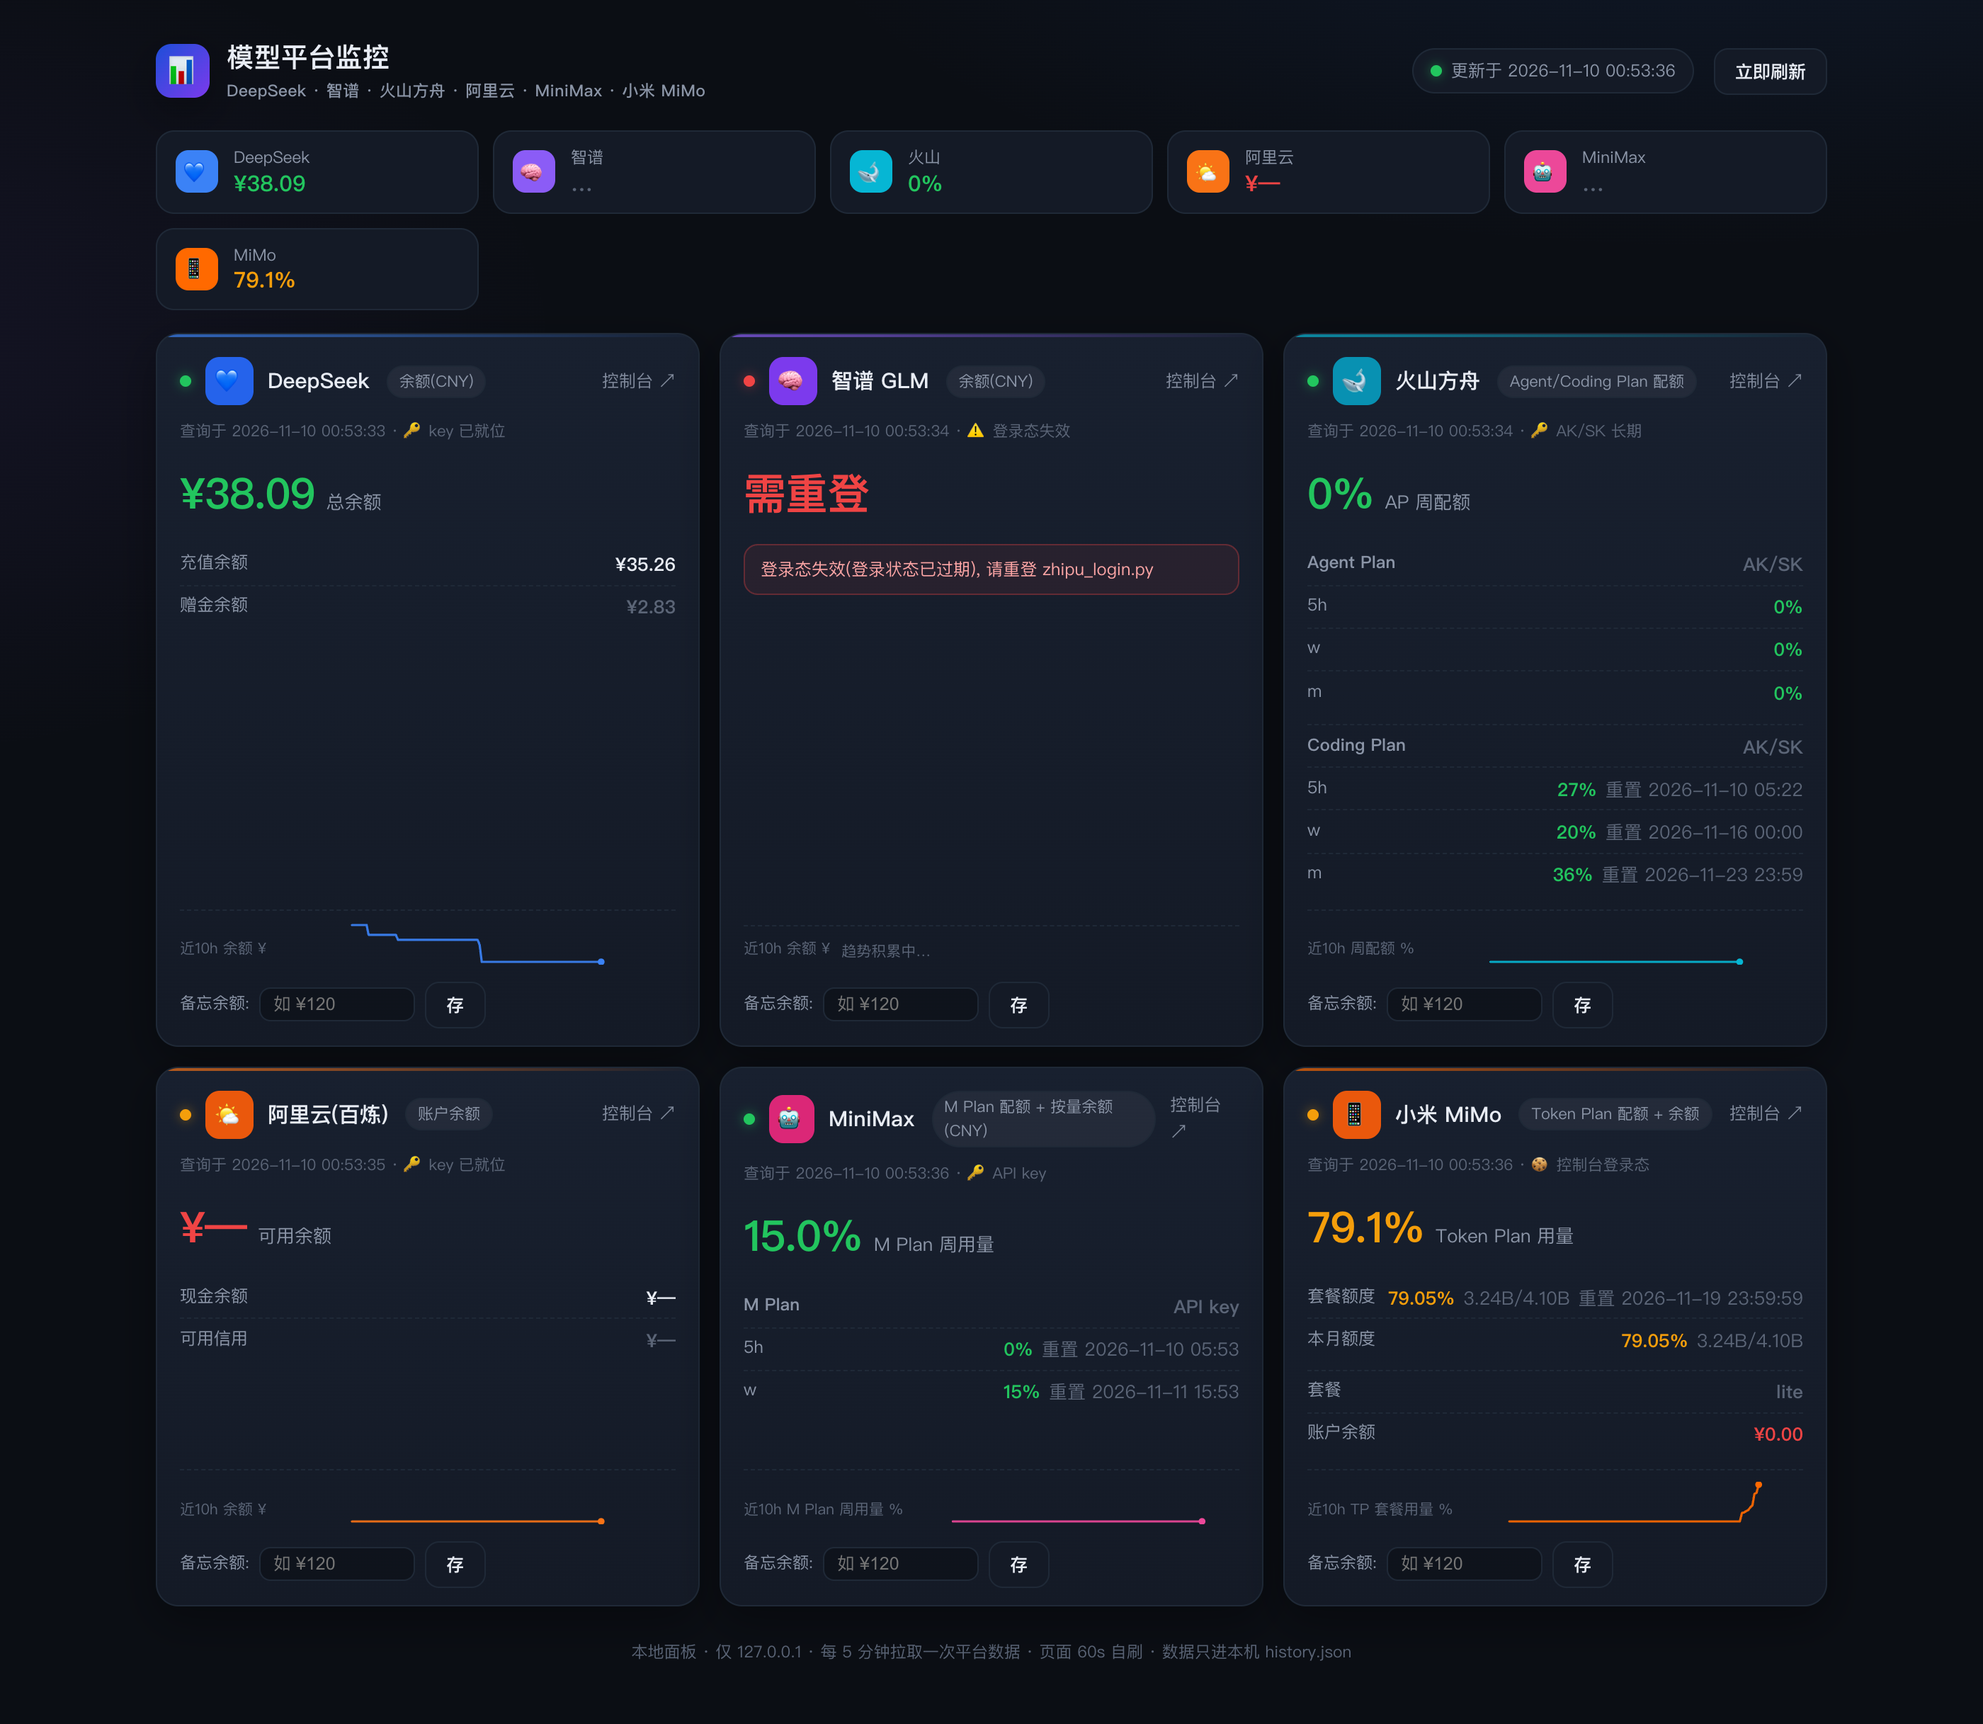
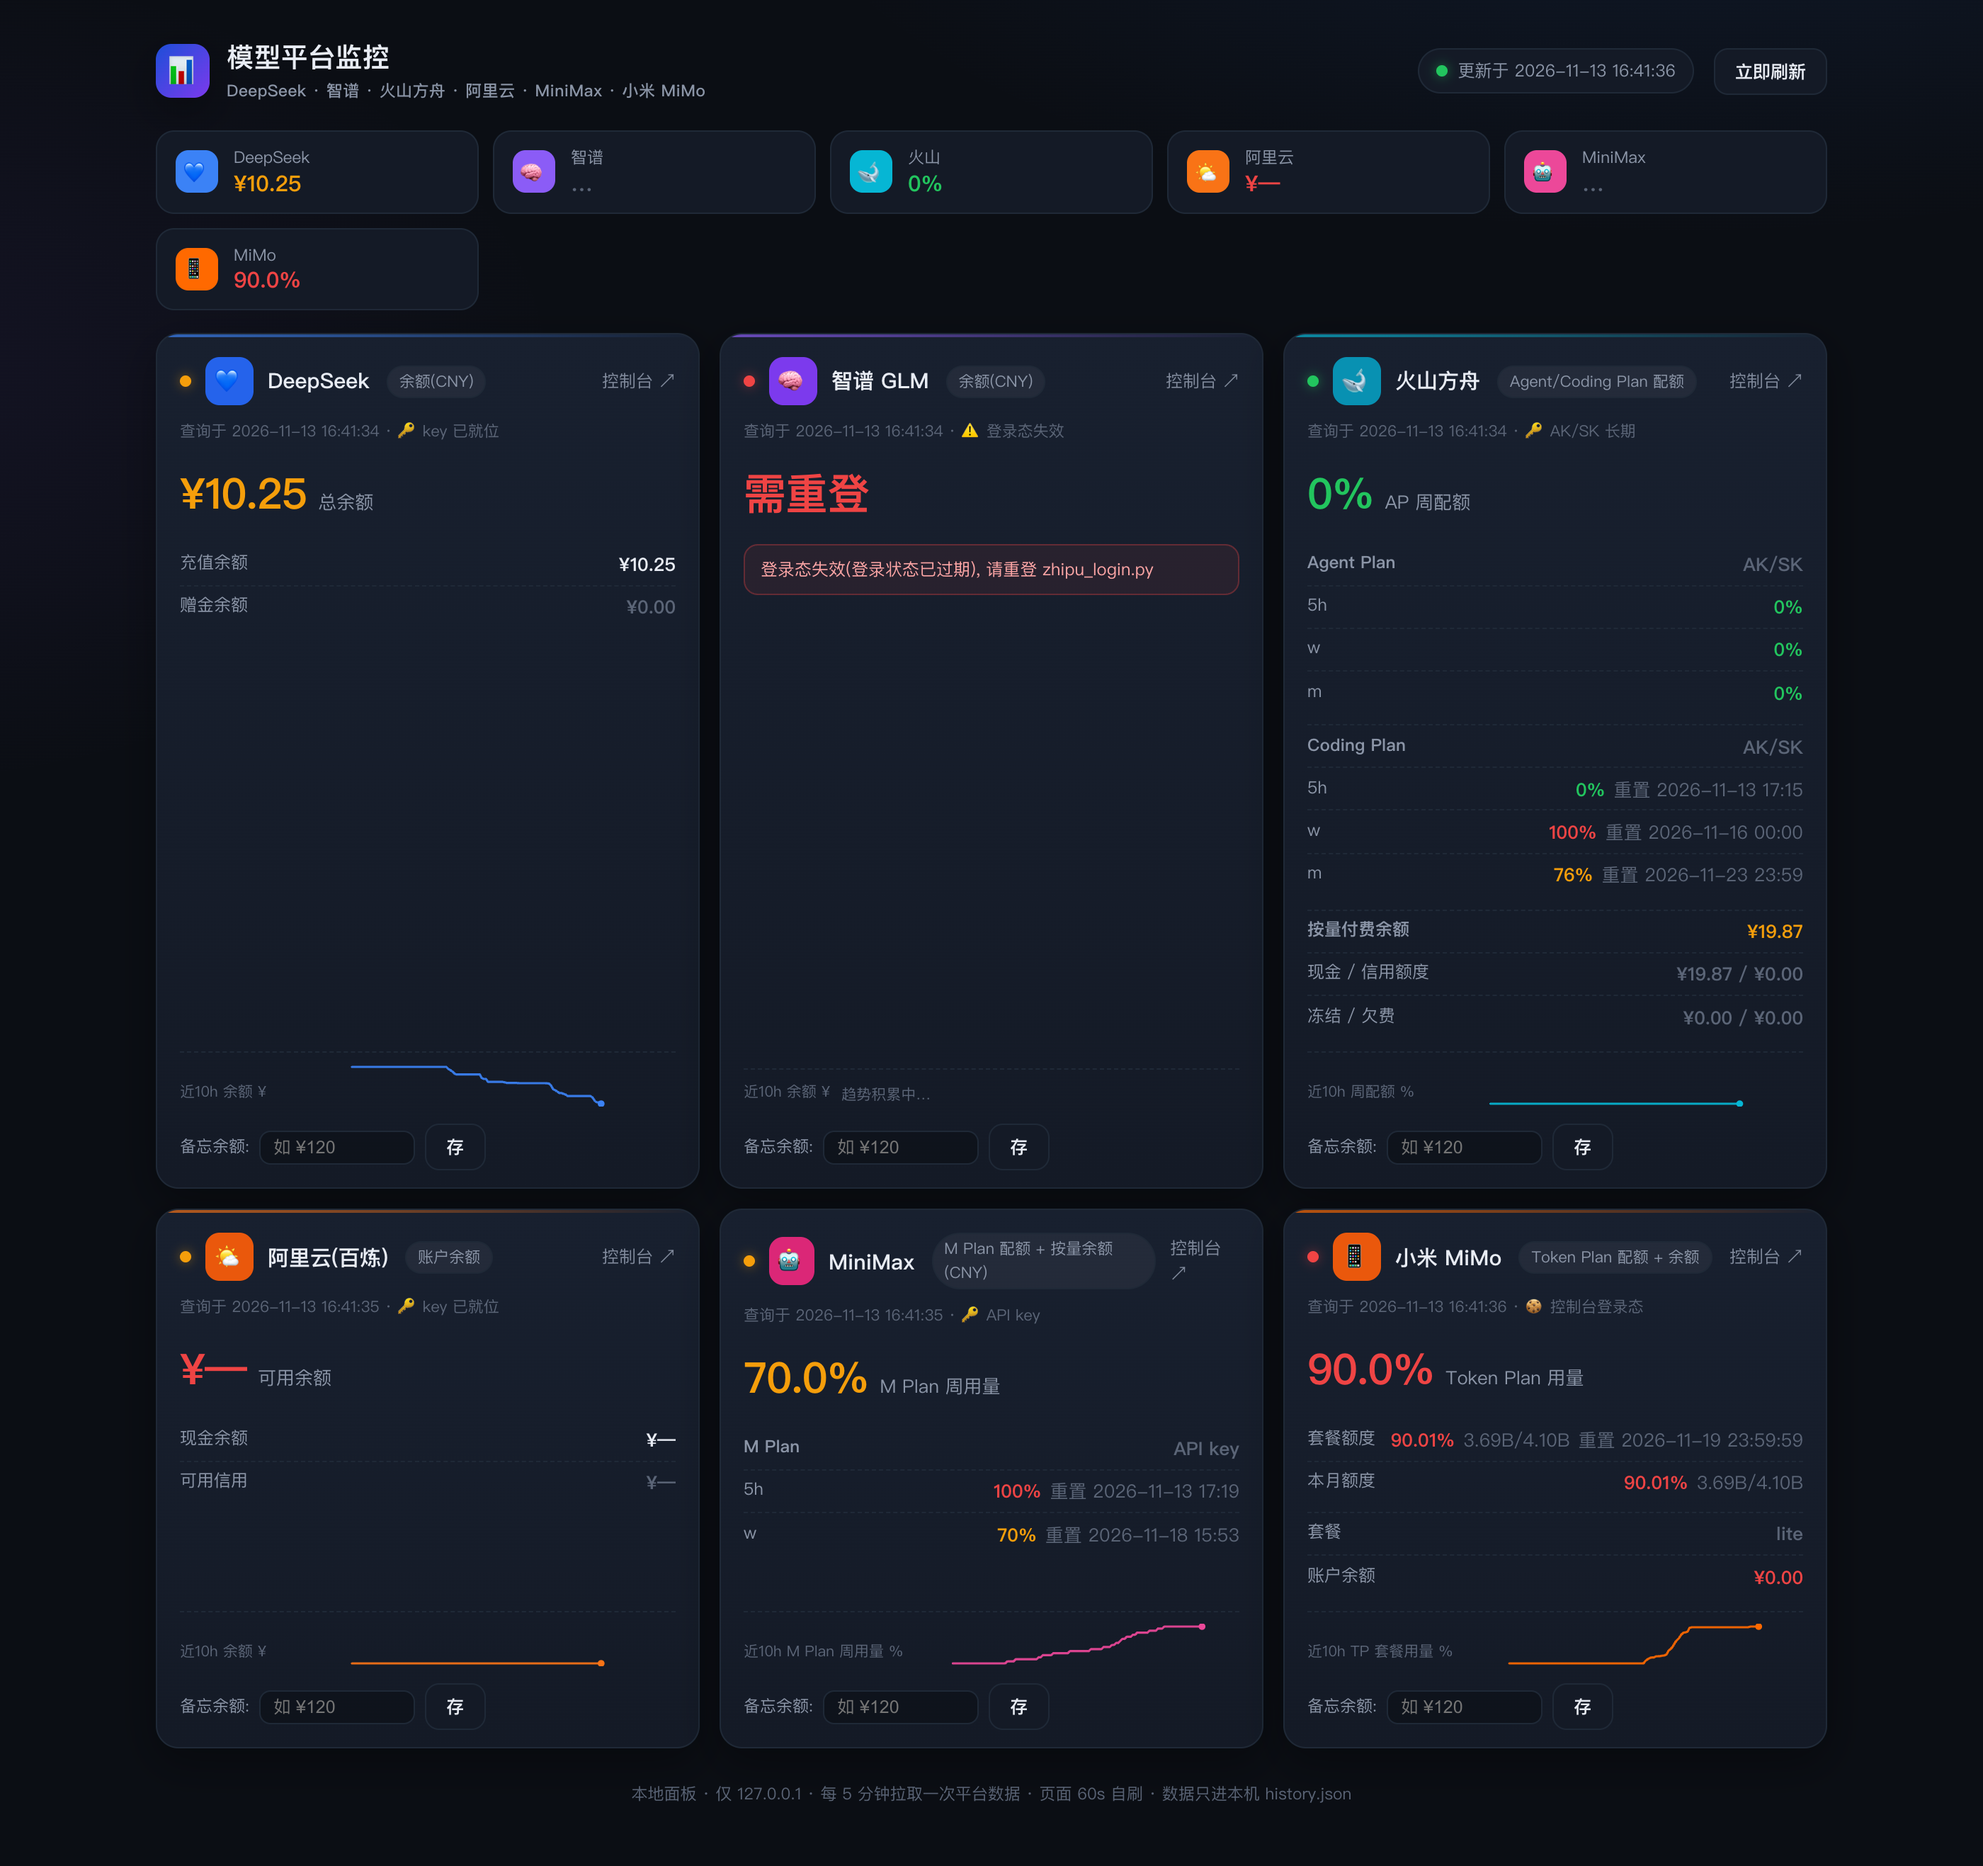
feat(volc): 新增按量付费账户余额监控（Billing OpenAPI QueryBalanceAcct）
- 签名函数支持自定义 host/service/version，余额走 billing 服务
- 面板火山卡片展示可用/现金/信用额度/冻结/欠费
- 菜单栏新增「火山余额」独立一行
- history 新增 volc_bal 采样
- README 补充权限要求与两套账的说明

diff --git a/dashboard.html b/dashboard.html
@@ -233,6 +233,20 @@ function render(data,hist){
       }else if(a.needs_login){pillCls="dot err";hero=`<span class="big r">需重登</span>`;rows=`<div class="errbox">${esc(a.error||"SSO 失效")}</div>`;}
       else if(a.needs_permission){pillCls="dot err";hero=`<span class="big r">无权限</span>`;rows=`<div class="errbox">${esc(a.error||"")}</div>`;}
       else{pillCls="dot err";hero=`<span class="big r">—</span>`;rows=errboxHtml(a.error);}
+      // 按量付费余额（Billing OpenAPI）—— 与套餐额度并列，套餐状态不影响它
+      const vb=a.balance;
+      if(vb){
+        rows+=`<div class="row" style="margin-top:10px"><span class="lbl" style="font-weight:600">按量付费余额</span>`+
+          (vb.ok&&vb.available!=null
+            ? `<span class="num ${balClass(vb.available)}">¥${fmt(vb.available)}</span></div>
+               <div class="row"><span class="lbl">现金 / 信用额度</span><span class="num dim">¥${fmt(vb.cash)} / ¥${fmt(vb.credit_limit)}</span></div>
+               <div class="row"><span class="lbl">冻结 / 欠费</span><span class="num dim">¥${fmt(vb.frozen)} / ¥${fmt(vb.arrears)}</span></div>`
+            : vb.needs_permission
+              ? `<span class="num err">缺 billing 权限</span></div>`
+              : vb.needs_setup
+                ? `<span class="num dim">未配 AK/SK</span></div>`
+                : `<span class="num dim">${esc(String(vb.error||"—").slice(0,50))}</span></div>`);
+      }
     }
     else if(pid==="minimax"){
       const lblShort=l=>({weekly:"w",monthly:"m",session:"5h",daily:"d","5h":"5h"}[l]||l);

diff --git a/poller.py b/poller.py
@@ -267,21 +267,22 @@ def query_volc_agentplan():
 # --------------------------------------------------------------------------
 _VOLC_HOST = "open.volcengineapi.com"
 
-def _volc_sign_req(ak, sk, action="GetAFPUsage", payload=None):
+def _volc_sign_req(ak, sk, action="GetAFPUsage", payload=None,
+                   host=_VOLC_HOST, service="ark", version="2024-01-01"):
     payload = payload or {}
     body = json.dumps(payload, separators=(",", ":"))
     payload_hash = hashlib.sha256(body.encode()).hexdigest()
     now = datetime.datetime.now(datetime.timezone.utc)
     xdate = now.strftime("%Y%m%dT%H%M%SZ")
     datestamp = xdate[:8]
-    query = {"Action": action, "Version": "2024-01-01"}
+    query = {"Action": action, "Version": version}
     cq = "&".join(f"{urllib.parse.quote(k)}={urllib.parse.quote(str(v))}"
                   for k, v in sorted(query.items()))
-    headers = {"host": _VOLC_HOST, "x-content-sha256": payload_hash, "x-date": xdate}
+    headers = {"host": host, "x-content-sha256": payload_hash, "x-date": xdate}
     signed = ";".join(sorted(headers))
     ch = "".join(f"{k}:{headers[k].strip()}\n" for k in sorted(headers))
     canonical = f"POST\n/\n{cq}\n{ch}\n{signed}\n{payload_hash}"
-    scope = f"{datestamp}/cn-beijing/ark/request"
+    scope = f"{datestamp}/cn-beijing/{service}/request"
     sts = f"HMAC-SHA256\n{xdate}\n{scope}\n{hashlib.sha256(canonical.encode()).hexdigest()}"
 
     def _h(key, msg):
@@ -291,11 +292,11 @@ def _volc_sign_req(ak, sk, action="GetAFPUsage", payload=None):
             msg = msg.encode()
         return hmac.new(key, msg, hashlib.sha256).digest()
 
-    kd = _h(sk, datestamp); kr = _h(kd, "cn-beijing"); ks = _h(kr, "ark"); kk = _h(ks, "request")
+    kd = _h(sk, datestamp); kr = _h(kd, "cn-beijing"); ks = _h(kr, service); kk = _h(ks, "request")
     sig = hmac.new(kk, sts.encode(), hashlib.sha256).hexdigest()
     auth = f"HMAC-SHA256 Credential={ak}/{scope}, SignedHeaders={signed}, Signature={sig}"
     req = urllib.request.Request(
-        f"https://{_VOLC_HOST}/?{cq}", data=body.encode(), method="POST",
+        f"https://{host}/?{cq}", data=body.encode(), method="POST",
         headers={"Content-Type": "application/json", "X-Date": xdate,
                  "X-Content-Sha256": payload_hash, "Authorization": auth,
                  "User-Agent": "model-monitor/1.0"})
@@ -481,6 +482,41 @@ def query_volc_codingplan(ak, sk):
         )
         return merged
     return aksk or fb
+
+# --------------------------------------------------------------------------
+# 适配器 4b: 火山引擎「按量付费」账户余额(Billing OpenAPI QueryBalanceAcct)
+# --------------------------------------------------------------------------
+def query_volc_balance_aksk(ak, sk):
+    """账户余额: 可用 / 现金 / 信用额度 / 欠费 / 冻结。需要 billing:QueryBalanceAcct 权限。"""
+    if not (ak and sk):
+        return {"ok": False, "needs_setup": "未配置火山 AK/SK（写入 .creds/volc.env）"}
+    try:
+        req = _volc_sign_req(ak, sk, action="QueryBalanceAcct",
+                             host="billing.volcengineapi.com",
+                             service="billing", version="2022-01-01")
+        with urllib.request.urlopen(req, timeout=20) as r:
+            body = json.loads(r.read().decode("utf-8"))
+        res = body.get("Result") or {}
+        return {"ok": True,
+                "available": _to_num(res.get("AvailableBalance")),
+                "cash": _to_num(res.get("CashBalance")),
+                "credit_limit": _to_num(res.get("CreditLimit")),
+                "arrears": _to_num(res.get("ArrearsBalance")),
+                "frozen": _to_num(res.get("FreezeAmount")),
+                "currency": res.get("Currency") or "CNY"}
+    except urllib.error.HTTPError as e:
+        try:
+            err = json.loads(e.read().decode("utf-8")).get("ResponseMetadata", {}).get("Error", {})
+            code = err.get("Code") or ""
+            msg = err.get("Message") or ""
+        except Exception:
+            code, msg = "", str(e)
+        if "AccessDenied" in code or "NotAuthorized" in code or "Unauthorized" in code:
+            return {"ok": False, "needs_permission": True,
+                    "error": f"火山 AK/SK 缺 billing:QueryBalanceAcct 权限({msg[:90]})"}
+        return {"ok": False, "error": f"HTTP {e.code}: {(code or msg)[:120]}"}
+    except Exception as e:
+        return {"ok": False, "error": f"{type(e).__name__}: {e}"[:160]}
 
 # --------------------------------------------------------------------------
 # 适配器 5: MiniMax Coding Plan 配额(cn / io 双域名, Bearer key)
@@ -963,6 +999,11 @@ def collect_status():
                     r["coding"] = query_volc_codingplan(ak, sk)
                 except Exception as e:
                     r["coding"] = {"ok": False, "error": f"{type(e).__name__}: {e}"[:160]}
+                # 按量付费账户余额（Billing OpenAPI，与套餐额度互不影响）
+                try:
+                    r["balance"] = query_volc_balance_aksk(ak, sk)
+                except Exception as e:
+                    r["balance"] = {"ok": False, "error": f"{type(e).__name__}: {e}"[:160]}
                 rec["auto"] = r
                 rec["auth_kind"] = "AK/SK" if (ak and sk) else "SSO"
                 rec["key_present"] = bool(key)
@@ -1055,6 +1096,9 @@ def append_history(data):
                     row["volc_weekly"] = round(float(x["pct"]), 1); got = True
                 elif x.get("label") == "monthly" and x.get("pct") is not None:
                     row["volc_monthly"] = round(float(x["pct"]), 1); got = True
+            vbal = a.get("balance") or {}
+            if vbal.get("ok") and vbal.get("available") is not None:
+                row["volc_bal"] = round(float(vbal["available"]), 2); got = True
     if got:
         global _history
         load_history()

diff --git a/menubar.py b/menubar.py
@@ -138,6 +138,21 @@ def mimo_plan_short(prov):
         return "MiMo TP: 未订阅"
     return f"MiMo TP: {(a.get('error') or '查询失败')[:60]}"
 
+def volc_balance_short(prov):
+    """火山按量付费余额单独一行：火山余额: ¥19.87"""
+    if not prov:
+        return "火山余额: 缺失"
+    b = (prov.get("auto") or {}).get("balance")
+    if not b:
+        return "火山余额: 待查询"
+    if b.get("ok") and b.get("available") is not None:
+        return f"火山余额: ¥{float(b['available']):.2f}"
+    if b.get("needs_permission"):
+        return "火山余额: 缺 billing 权限"
+    if b.get("needs_setup"):
+        return "火山余额: 未配 AK/SK"
+    return f"火山余额: {(b.get('error') or '查询失败')[:50]}"
+
 class ModelMonitorApp(rumps.App):
     def __init__(self):
         icon = os.path.join(os.path.dirname(os.path.abspath(__file__)), "assets", "menubar.png")
@@ -146,6 +161,7 @@ class ModelMonitorApp(rumps.App):
         # 每个 provider 一行；火山在 AP 行下面再加一行 Coding Plan
         self.items_by_id = {}
         self.volc_coding_item = None
+        self.volc_balance_item = None
         self.minimax_plan_item = None
         self.mimo_plan_item = None
         menu_items = []
@@ -156,6 +172,8 @@ class ModelMonitorApp(rumps.App):
             if pid == "volc":
                 self.volc_coding_item = rumps.MenuItem("火山CP: 加载中…")
                 menu_items.append(self.volc_coding_item)
+                self.volc_balance_item = rumps.MenuItem("火山余额: 加载中…")
+                menu_items.append(self.volc_balance_item)
             if pid == "minimax":
                 self.minimax_plan_item = rumps.MenuItem("MiniMax M: 加载中…")
                 menu_items.append(self.minimax_plan_item)
@@ -183,6 +201,8 @@ class ModelMonitorApp(rumps.App):
                 self.items_by_id[pid].title = short(p) if p else f"{pid}: 缺失"
             if self.volc_coding_item is not None:
                 self.volc_coding_item.title = volc_coding_short(byid.get("volc"))
+            if self.volc_balance_item is not None:
+                self.volc_balance_item.title = volc_balance_short(byid.get("volc"))
             if self.minimax_plan_item is not None:
                 self.minimax_plan_item.title = minimax_plan_short(byid.get("minimax"))
             if self.mimo_plan_item is not None:

diff --git a/README.md b/README.md
@@ -22,7 +22,7 @@
 |---|---|---|
 | **DeepSeek** | 账户余额（充值 / 赠金） | API Key |
 | **智谱 GLM** | 余额、累计充值与消费；Coding Plan 的 5h / 周用量 | API Key + 控制台登录态 |
-| **火山方舟** | **Agent Plan** 与 **Coding Plan** 两套套餐的 5h / 周 / 月用量与重置时间 | AK/SK 直查 OpenAPI（长期有效）；无权限时回落 `arkcli` SSO |
+| **火山方舟** | **Agent Plan** 与 **Coding Plan** 两套套餐的 5h / 周 / 月用量与重置时间；**按量付费账户余额**（可用 / 现金 / 信用额度 / 冻结 / 欠费） | 套餐：AK/SK 直查 OpenAPI（无权限时回落 `arkcli` SSO）；余额：Billing OpenAPI `QueryBalanceAcct`（需 `billing:QueryBalanceAcct` 权限） |
 | **阿里云百炼** | 账户余额 | 只读 RAM 子账号 AK/SK |
 | **MiniMax** | **M Plan** 的 5h / 周用量；按量余额 | API Key（额度）/ 控制台登录态（余额） |
 | **小米 MiMo** | **Token Plan** 套餐用量（含本月）、余额、套餐周期 | 控制台登录态 + 请求签名 |
@@ -37,6 +37,7 @@
   智谱: 登录态失效
   火山AP: 5h 0.0% w 0.0% m 0.0%
   火山CP: 5h 42% w 22% m 37%
+  火山余额: ¥19.87
   千问: ¥7.75
   MiniMax M: 5h 0.0% w 15%
   MiMo: ¥0.00
@@ -124,6 +125,15 @@ MiMo 控制台 API 在 2026-11 起要求请求签名（只带 cookie 会返回 `
 4. 签名失效时自动重取密钥重试一次，并用响应头 `x-server-time` 校准本机时钟偏差。
 
 详见 `poller.py` 的 `_mimo_sign_key()` / `_mimo_signed_get()`。
+
+### 火山引擎「按量付费」余额
+
+火山有两套账：**套餐额度**（Agent Plan / Coding Plan）和**按量付费账户余额**，两者互不相干。
+
+余额走 Billing OpenAPI（`billing.volcengineapi.com`，Action `QueryBalanceAcct`，Version `2022-01-01`），用同一个 AK/SK 签名，需要该子账号具备 `billing:QueryBalanceAcct` 权限（预置策略 `BillingCenterReadOnlyAccess` 即可）。返回可用余额、现金余额、信用额度、冻结金额与欠费。
+
+没有权限时面板会明确显示「缺 billing 权限」，不影响套餐额度那两行。
+
 
 ## 打包成 macOS App（可选）
 
